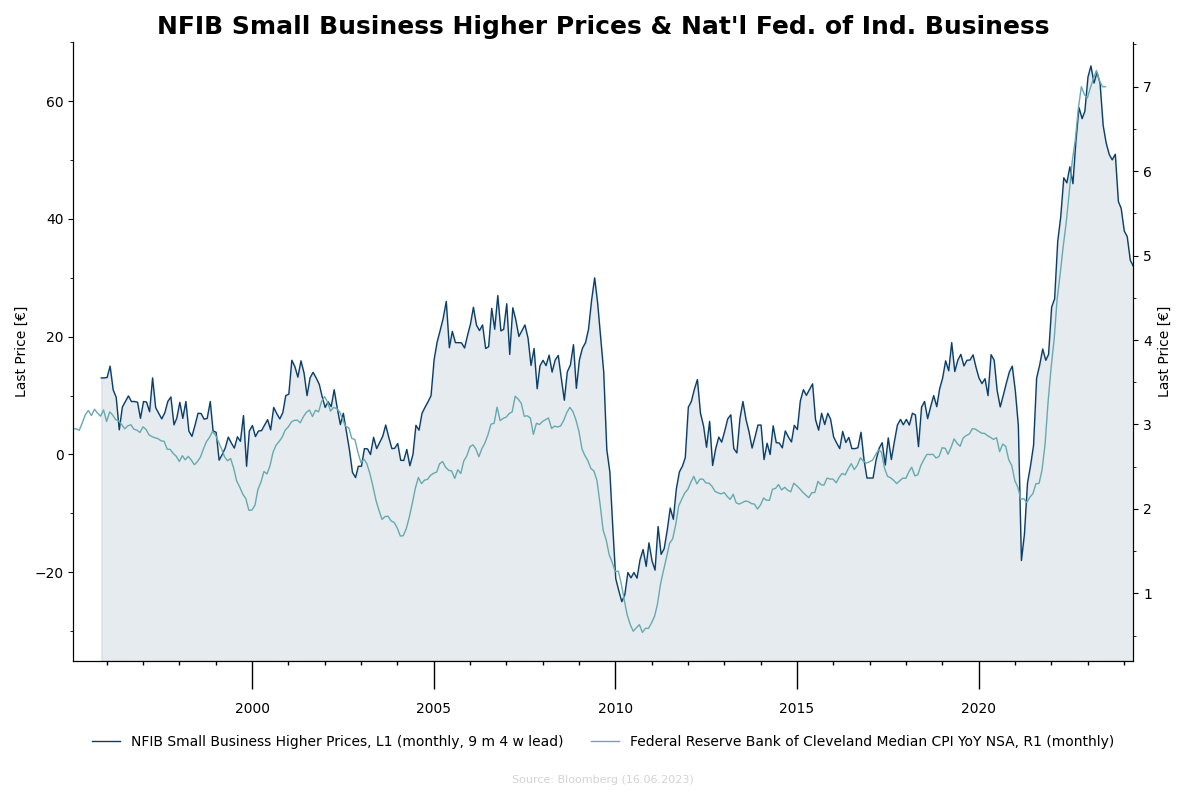
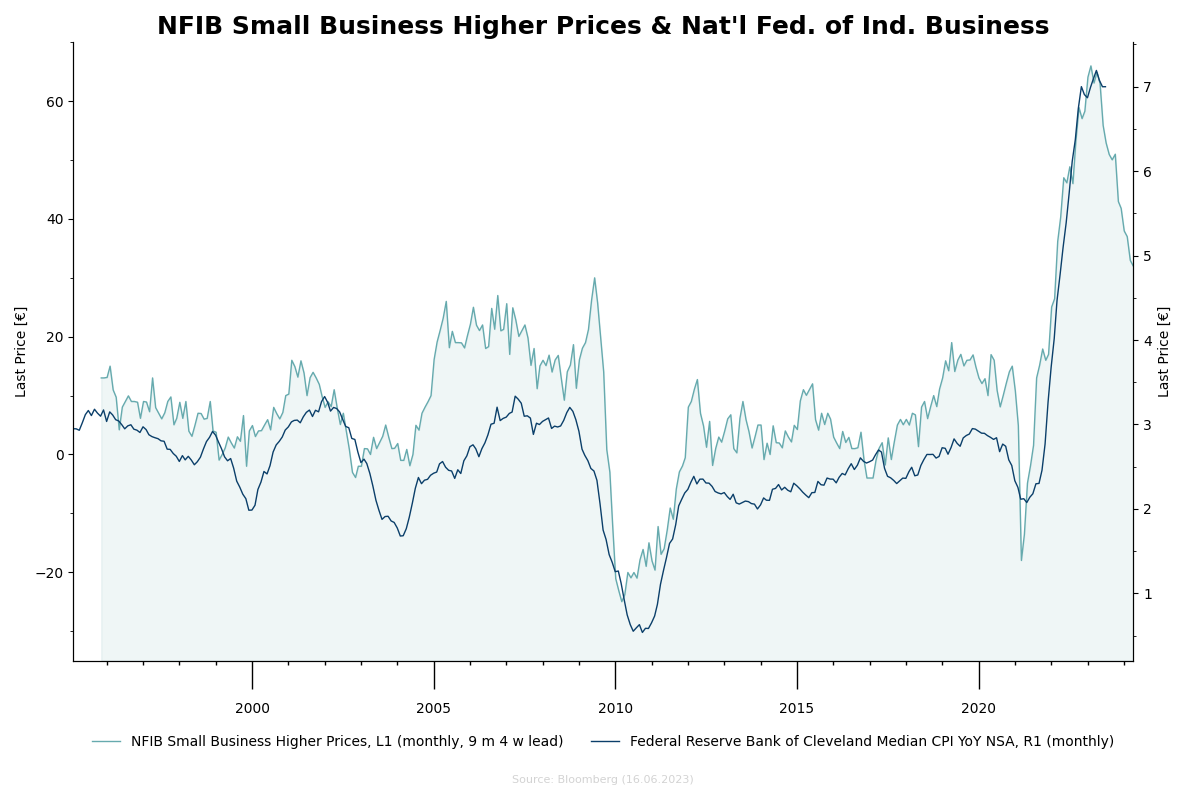
switch primary and secondary color

diff --git a/charting/model/style.py b/charting/model/style.py
@@ -1,7 +1,7 @@
 """
 Style Guide for D&R Charting Lib.
 """
-colors = ["#0B3F6A", "#66AAAE", "#CE104C", "#017B6E", "#613628", "#E06300", "#A3D1D4"]
+colors = ["#66AAAE", "#0B3F6A", "#CE104C", "#017B6E", "#613628", "#E06300", "#A3D1D4"]
 source_text_style = {'color': '#D3D3D3', 'fontsize': 8}
 title_style = {'fontsize': 18, 'fontweight': 'bold'}
 
